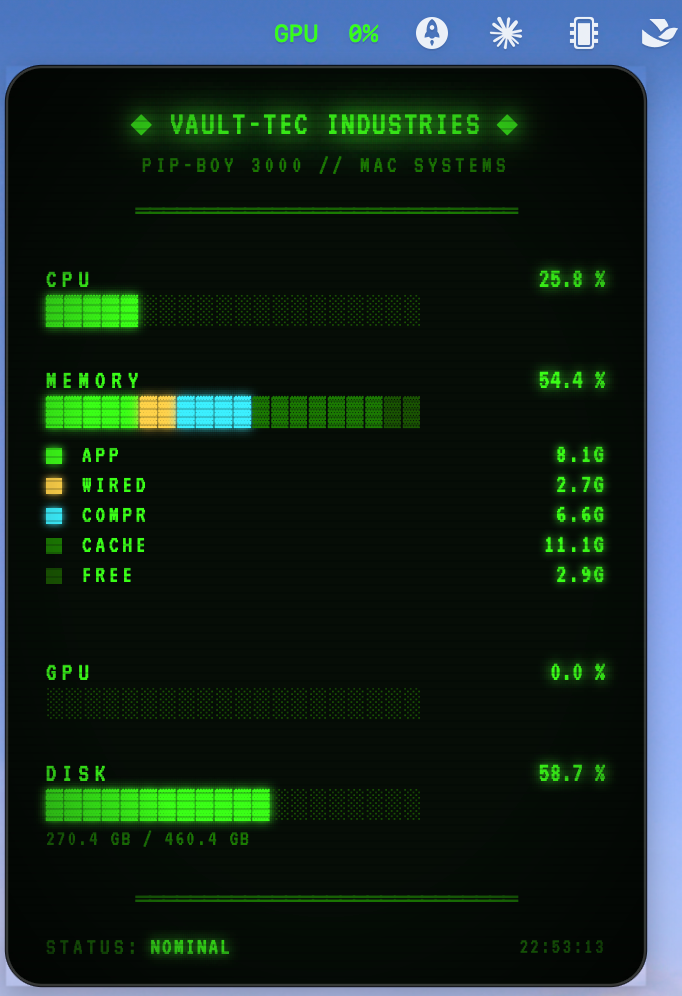
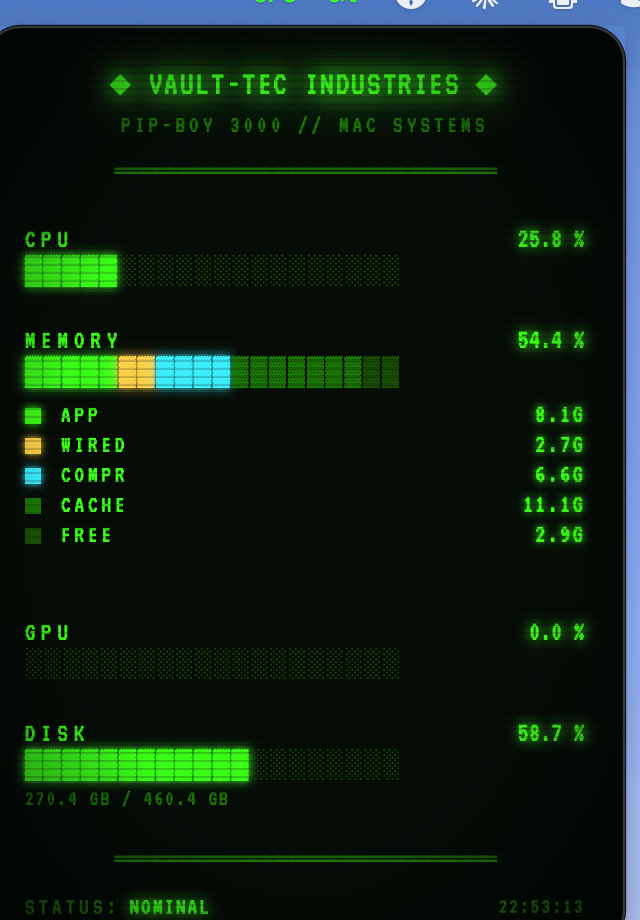
fix: right-click menu positioning + rounded-corner alpha leak (v1.2.2)
Right-click menu:
Replaced the manual `NSMenu.popUp(positioning:at:in:)` call with the
canonical `statusItem.menu = menu; button.performClick(nil)` pattern.
The manual popUp was opening the menu in scroll-chevron mode (hiding
"Show Live Metrics" behind a ^) or detached from the menu bar. AppKit
handles menu-bar menu positioning natively once `statusItem.menu` is
set; we just need to detach it after the modal performClick returns
so left-click still toggles the panel.

Rounded-corner alpha leak:
The panel's four corners were showing white squares whenever an opaque
window sat behind ours. Cause: `layer.cornerRadius` on an
NSVisualEffectView doesn't propagate to the window's alpha channel on
macOS 14+, so the compositor still saw the panel as a rectangle and
painted shadow + default backing at the rectangular corners, which
read as "white" on top of any light background.

Fix: build a rounded-rect NSImage with capInsets and assign it to
`NSVisualEffectView.maskImage`. The mask participates in window
compositing correctly, and a call to `NSWindow.invalidateShadow()`
recomputes the shadow from the new alpha shape.

Docs + screenshots:
- README screenshot layout switched from markdown tables to
  `<p align="center">` + explicit `<img width>`, uniform per-image.
- docs/screenshots/liquid-glass.png and fallout.png re-cropped to a
  matching 640x920 frame so they line up in the README grid.
- docs/index.html gains a Showcase section (id="showcase") between
[…]

Changed region(s): [[0.0, 0.0, 1.0, 1.0]]

diff --git a/Sources/FreeMacMonitor/StatusBarController.swift b/Sources/FreeMacMonitor/StatusBarController.swift
@@ -113,6 +113,19 @@ class StatusBarController: NSObject {
         guard let button = statusItem.button else { return }
         if panel?.isVisible == true { closePanel() }
 
+        // Canonical menu-bar menu display: briefly attach the menu to the
+        // status item and trigger its default click action.  AppKit handles
+        // positioning (flush under the menu bar, flipped if it doesn't fit,
+        // correct vertical anchoring) — `popUp(positioning:at:in:)` is the
+        // wrong primitive here and was causing the menu to truncate with a
+        // scroll chevron or float detached from the menu bar.
+        let menu = buildContextMenu()
+        statusItem.menu = menu
+        button.performClick(nil)     // blocks until the menu dismisses
+        statusItem.menu = nil        // detach so left-click still opens the panel
+    }
+
+    private func buildContextMenu() -> NSMenu {
         let menu = NSMenu()
         menu.autoenablesItems = false
 
@@ -126,7 +139,6 @@ class StatusBarController: NSObject {
         breakdown.state  = showMemBreakdown ? .on : .off
         menu.addItem(breakdown)
 
-        // Theme submenu
         let themeItem = NSMenuItem(title: "Theme", action: nil, keyEquivalent: "")
         let themeSub  = NSMenu(title: "Theme")
         for t in [Theme.liquidGlass, .fallout] {
@@ -139,7 +151,6 @@ class StatusBarController: NSObject {
         themeItem.submenu = themeSub
         menu.addItem(themeItem)
 
-        // Auto-Release submenu
         let autoItem = NSMenuItem(title: "Auto-Release Memory", action: nil, keyEquivalent: "")
         let autoSub  = NSMenu(title: "Auto-Release Memory")
         for mode in [AutoReleaseMode.notify, .autoPassword, .autoSudoers, .off] {
@@ -152,15 +163,15 @@ class StatusBarController: NSObject {
         autoItem.submenu = autoSub
         menu.addItem(autoItem)
 
-        let releaseNow = NSMenuItem(
+        let releaseNowItem = NSMenuItem(
             title: "Release Memory Now…",
             action: #selector(releaseNow),
             keyEquivalent: "r"
         )
-        releaseNow.keyEquivalentModifierMask = [.command]
-        releaseNow.target = self
-        releaseNow.isEnabled = !isReleasing
-        menu.addItem(releaseNow)
+        releaseNowItem.keyEquivalentModifierMask = [.command]
+        releaseNowItem.target = self
+        releaseNowItem.isEnabled = !isReleasing
+        menu.addItem(releaseNowItem)
 
         menu.addItem(.separator())
 
@@ -168,9 +179,7 @@ class StatusBarController: NSObject {
         quit.target = self
         menu.addItem(quit)
 
-        menu.popUp(positioning: nil,
-                   at: NSPoint(x: 0, y: button.frame.height + 4),
-                   in: button)
+        return menu
     }
 
     @objc private func toggleLiveMetrics() {
@@ -299,9 +308,33 @@ class StatusBarController: NSObject {
         vibrancy.material         = .hudWindow    // more translucent than .popover
         vibrancy.state            = .active
         vibrancy.blendingMode     = .behindWindow
-        vibrancy.wantsLayer       = true
-        vibrancy.layer?.cornerRadius  = 18        // Liquid Glass reads rounder
-        vibrancy.layer?.masksToBounds = true
+        // Rounded shape via an alpha mask image.  On macOS 14+ `layer.cornerRadius`
+        // alone doesn't propagate to the window's alpha channel, so the rectangular
+        // panel frame leaked through at the four corners (visible as white squares
+        // when an opaque window was behind ours).  `maskImage` participates in the
+        // compositor's alpha and also gives us a correctly-rounded shadow shape.
+        let cornerRadius: CGFloat = 18
+        let maskDim = Int(cornerRadius * 2) + 1
+        let maskImage = NSImage(
+            size: NSSize(width: maskDim, height: maskDim),
+            flipped: false
+        ) { rect in
+            NSColor.black.set()
+            NSBezierPath(
+                roundedRect: rect,
+                xRadius: cornerRadius,
+                yRadius: cornerRadius
+            ).fill()
+            return true
+        }
+        maskImage.capInsets = NSEdgeInsets(
+            top:    cornerRadius,
+            left:   cornerRadius,
+            bottom: cornerRadius,
+            right:  cornerRadius
+        )
+        maskImage.resizingMode = .stretch
+        vibrancy.maskImage = maskImage
 
         let config = WKWebViewConfiguration()
         let wv = WKWebView(frame: frame, configuration: config)
@@ -318,6 +351,10 @@ class StatusBarController: NSObject {
         vibrancyView   = vibrancy
         webView        = wv
         panel          = p
+
+        // Recompute shadow from the alpha mask above, otherwise macOS keeps
+        // the rectangular shadow it cached at window creation.
+        p.invalidateShadow()
 
         loadWebContent()
     }

diff --git a/docs/index.html b/docs/index.html
@@ -27,6 +27,7 @@
       </div>
       <nav class="nav">
         <a href="#features" data-en="FEATURES" data-zh="特性">FEATURES</a>
+        <a href="#showcase" data-en="SHOWCASE" data-zh="界面">SHOWCASE</a>
         <a href="#install" data-en="INSTALL" data-zh="安装">INSTALL</a>
         <a href="#how" data-en="HOW IT WORKS" data-zh="原理">HOW IT WORKS</a>
         <a href="https://github.com/pekinlcc/FreeMacMonitor" target="_blank" rel="noopener">GITHUB</a>
@@ -232,11 +233,57 @@
     </div>
   </section>
 
-  <!-- Install -->
-  <section class="section alt" id="install">
+  <!-- Showcase -->
+  <section class="section alt" id="showcase">
     <div class="wrap">
       <div class="section-head">
         <span class="section-num">02</span>
+        <h2 data-en="SHOWCASE" data-zh="界面预览">SHOWCASE</h2>
+        <span class="section-rule"></span>
+      </div>
+
+      <div class="showcase-grid">
+        <figure class="shot shot-tall">
+          <div class="shot-frame">
+            <img src="screenshots/liquid-glass.png" alt="Liquid Glass theme (default)">
+          </div>
+          <figcaption>
+            <span class="shot-label" data-en="LIQUID GLASS" data-zh="LIQUID GLASS">LIQUID GLASS</span>
+            <span class="shot-sub" data-en="default · translucent NSVisualEffectView, SF Pro, gradient pills"
+                                    data-zh="默认 · 半透明 NSVisualEffectView、SF Pro、渐变 pill 柱">default · translucent NSVisualEffectView, SF Pro, gradient pills</span>
+          </figcaption>
+        </figure>
+
+        <figure class="shot shot-tall">
+          <div class="shot-frame">
+            <img src="screenshots/fallout.png" alt="Fallout Terminal theme">
+          </div>
+          <figcaption>
+            <span class="shot-label" data-en="FALLOUT TERMINAL" data-zh="FALLOUT TERMINAL">FALLOUT TERMINAL</span>
+            <span class="shot-sub" data-en="right-click Theme ▸ · VT323 CRT, phosphor green, scanlines"
+                                    data-zh="右键 Theme ▸ · VT323 CRT 荧光绿、扫描线">right-click Theme ▸ · VT323 CRT, phosphor green, scanlines</span>
+          </figcaption>
+        </figure>
+
+        <figure class="shot shot-wide">
+          <div class="shot-frame">
+            <img src="screenshots/menu.png" alt="Right-click menu with all toggles">
+          </div>
+          <figcaption>
+            <span class="shot-label" data-en="RIGHT-CLICK MENU" data-zh="右键菜单">RIGHT-CLICK MENU</span>
+            <span class="shot-sub" data-en="every preference lives here — theme, breakdown, auto-release"
+                                    data-zh="所有偏好都在这里 —— 主题、内存分类、自动清理">every preference lives here — theme, breakdown, auto-release</span>
+          </figcaption>
+        </figure>
+      </div>
+    </div>
+  </section>
+
+  <!-- Install -->
+  <section class="section" id="install">
+    <div class="wrap">
+      <div class="section-head">
+        <span class="section-num">03</span>
         <h2 data-en="DOWNLOAD &amp; INSTALL" data-zh="下载与安装">DOWNLOAD &amp; INSTALL</h2>
         <span class="section-rule"></span>
       </div>
@@ -338,10 +385,10 @@
   </section>
 
   <!-- How it works -->
-  <section class="section" id="how">
+  <section class="section alt" id="how">
     <div class="wrap">
       <div class="section-head">
-        <span class="section-num">03</span>
+        <span class="section-num">04</span>
         <h2 data-en="HOW IT WORKS" data-zh="实现原理">HOW IT WORKS</h2>
         <span class="section-rule"></span>
       </div>

diff --git a/docs/style.css b/docs/style.css
@@ -675,6 +675,72 @@ a:hover { text-shadow: var(--glow-md); }
 .footer-copy { color: var(--fg-dim); font-size: 13px; display: inline-flex; align-items: center; gap: 6px; }
 .footer-copy .blink { color: var(--fg); }
 
+/* ── Showcase (real screenshots) ─────────────────────────── */
+.showcase-grid {
+  display: grid;
+  grid-template-columns: repeat(auto-fit, minmax(260px, 1fr));
+  gap: 32px;
+  align-items: start;
+}
+.shot {
+  margin: 0;
+  display: flex;
+  flex-direction: column;
+  gap: 14px;
+}
+.shot-frame {
+  position: relative;
+  background: #0b100c;
+  border: 1px solid var(--fg-faint);
+  padding: 10px;
+  overflow: hidden;
+  transition: border-color .15s, box-shadow .15s;
+}
+.shot-frame::before {
+  content: '';
+  position: absolute; top: -1px; left: -1px;
+  width: 14px; height: 14px;
+  border-top: 1px solid var(--fg);
+  border-left: 1px solid var(--fg);
+}
+.shot-frame::after {
+  content: '';
+  position: absolute; bottom: -1px; right: -1px;
+  width: 14px; height: 14px;
+  border-bottom: 1px solid var(--fg);
+  border-right: 1px solid var(--fg);
+}
+.shot:hover .shot-frame {
+  border-color: var(--fg-dim);
+  box-shadow: var(--glow-md);
+}
+.shot img {
+  display: block;
+  width: 100%;
+  height: auto;
+  border-radius: 4px;
+}
+.shot-tall img { max-height: 480px; object-fit: contain; object-position: top center; background: transparent; }
+.shot-wide img { max-height: 260px; object-fit: contain; object-position: top center; background: transparent; }
+.shot figcaption {
+  display: flex;
+  flex-direction: column;
+  gap: 4px;
+  text-align: left;
+}
+.shot-label {
+  font-family: var(--font-display);
+  font-size: 15px;
+  letter-spacing: 2px;
+  color: var(--fg);
+  text-shadow: var(--glow-sm);
+}
+.shot-sub {
+  color: var(--ink);
+  font-size: 13px;
+  line-height: 1.45;
+}
+
 /* ── Responsive ─────────────────────────────────────────── */
 @media (max-width: 960px) {
   .hero-grid { grid-template-columns: 1fr; gap: 40px; }

diff --git a/README.md b/README.md
@@ -27,9 +27,17 @@ If you prefer building from source, see [Build & run](#build--run) below.
 
 ### Screenshots
 
-| Liquid Glass (default) | Fallout Terminal | Right-click menu |
-|---|---|---|
-| ![Liquid Glass theme](docs/screenshots/liquid-glass.png) | ![Fallout theme](docs/screenshots/fallout.png) | ![Right-click menu](docs/screenshots/menu.png) |
+<p align="center">
+  <img src="docs/screenshots/liquid-glass.png" width="300" alt="Liquid Glass theme (default)">
+  &nbsp;&nbsp;
+  <img src="docs/screenshots/fallout.png" width="300" alt="Fallout Terminal theme">
+</p>
+<p align="center"><em>Liquid Glass (default) · Fallout Terminal</em></p>
+
+<p align="center">
+  <img src="docs/screenshots/menu.png" width="320" alt="Right-click menu">
+</p>
+<p align="center"><em>Right-click menu</em></p>
 
 ### Features
 
@@ -165,9 +173,17 @@ Info.plist                  — LSUIElement, CFBundleIconFile, identifiers
 
 ### 截图
 
-| Liquid Glass（默认） | Fallout Terminal | 右键菜单 |
-|---|---|---|
-| ![Liquid Glass](docs/screenshots/liquid-glass.png) | ![Fallout](docs/screenshots/fallout.png) | ![右键菜单](docs/screenshots/menu.png) |
+<p align="center">
+  <img src="docs/screenshots/liquid-glass.png" width="300" alt="Liquid Glass（默认）">
+  &nbsp;&nbsp;
+  <img src="docs/screenshots/fallout.png" width="300" alt="Fallout Terminal">
+</p>
+<p align="center"><em>Liquid Glass（默认） · Fallout Terminal</em></p>
+
+<p align="center">
+  <img src="docs/screenshots/menu.png" width="320" alt="右键菜单">
+</p>
+<p align="center"><em>右键菜单</em></p>
 
 ### 功能特性
 
